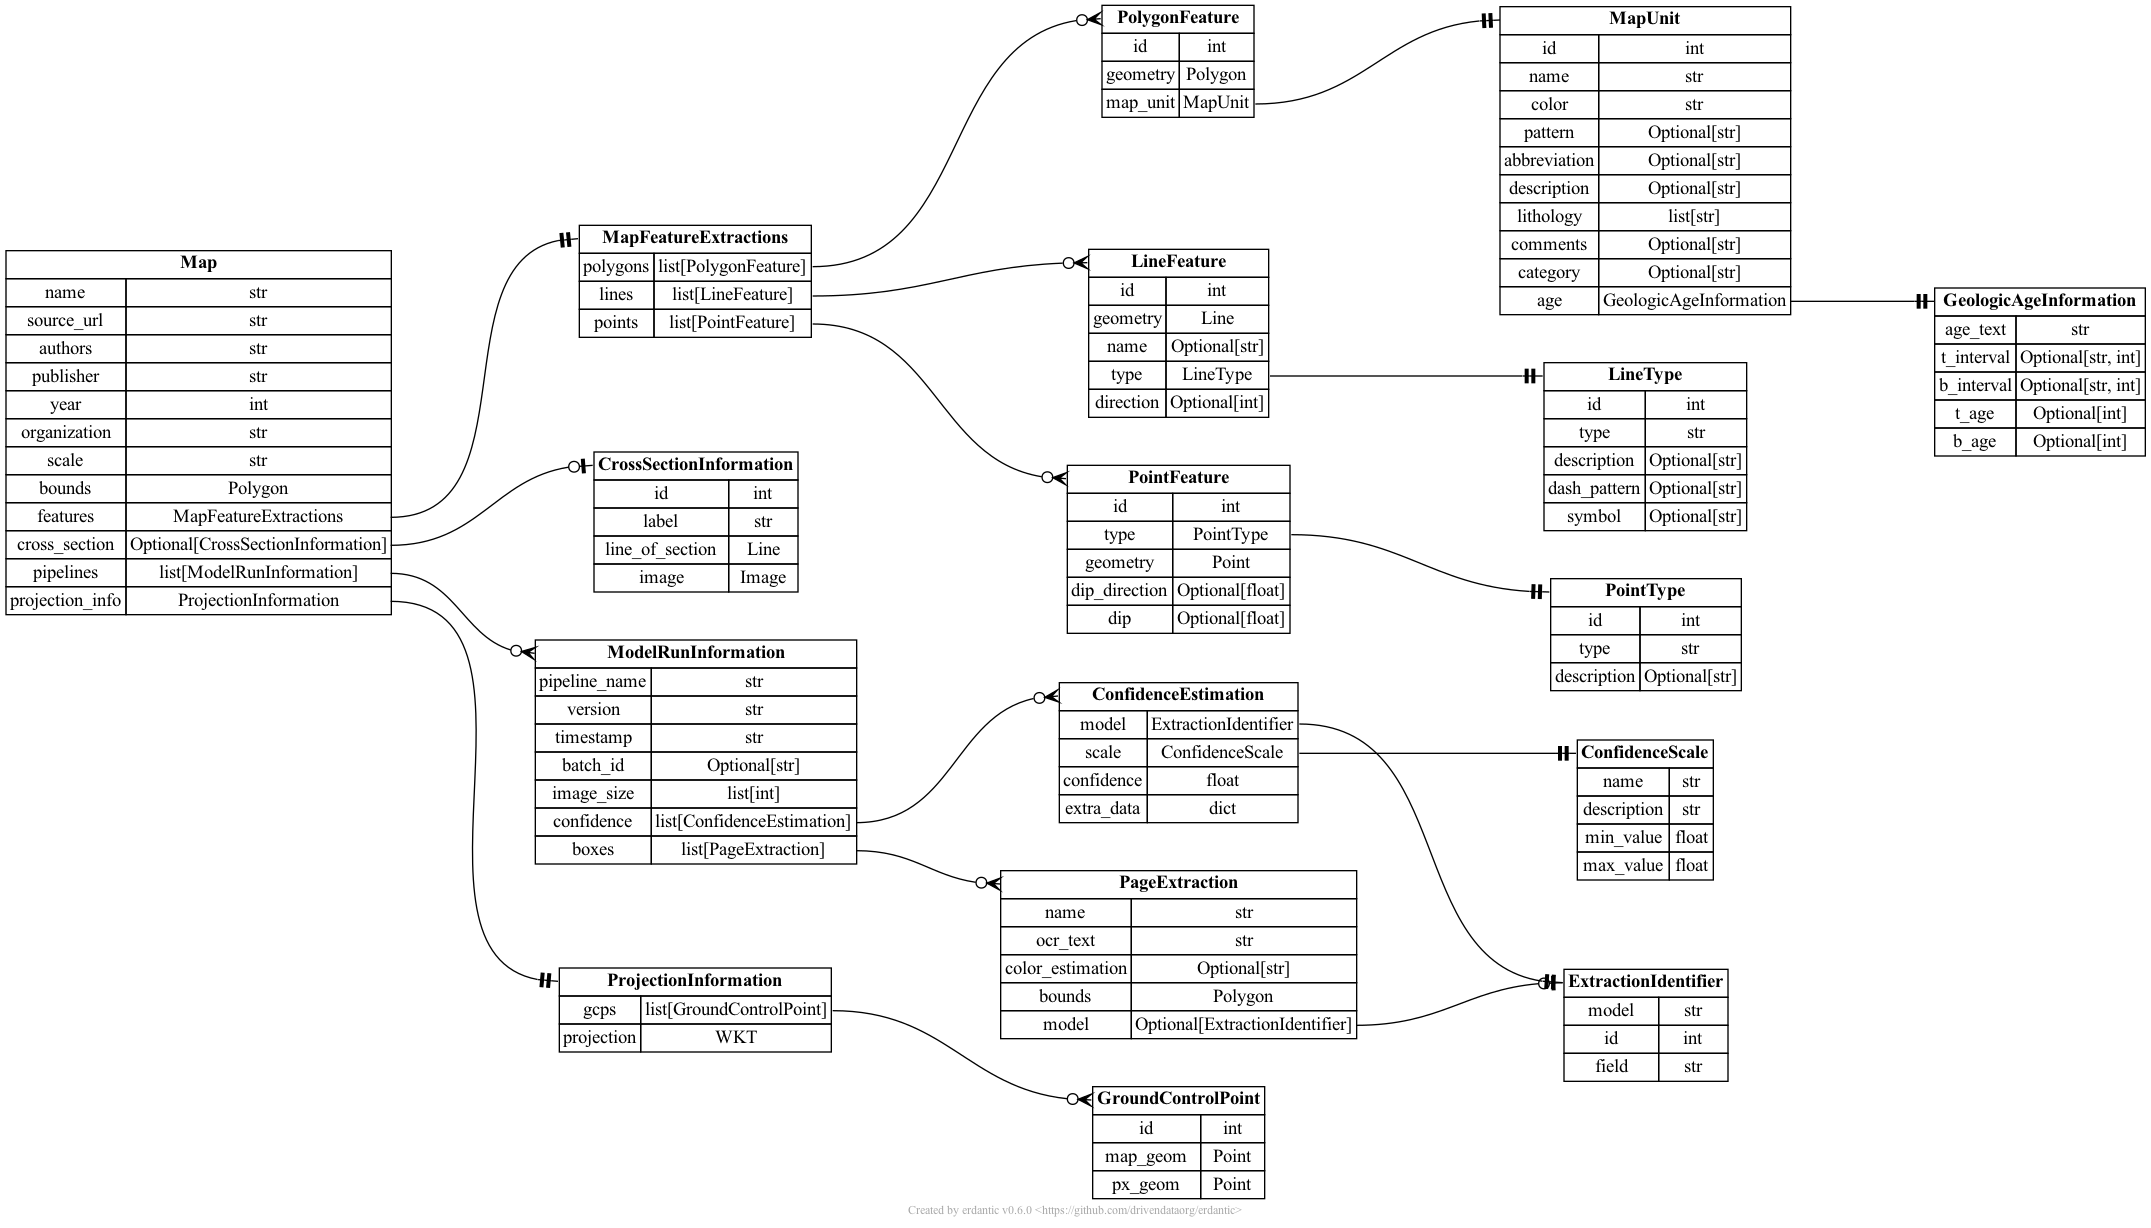
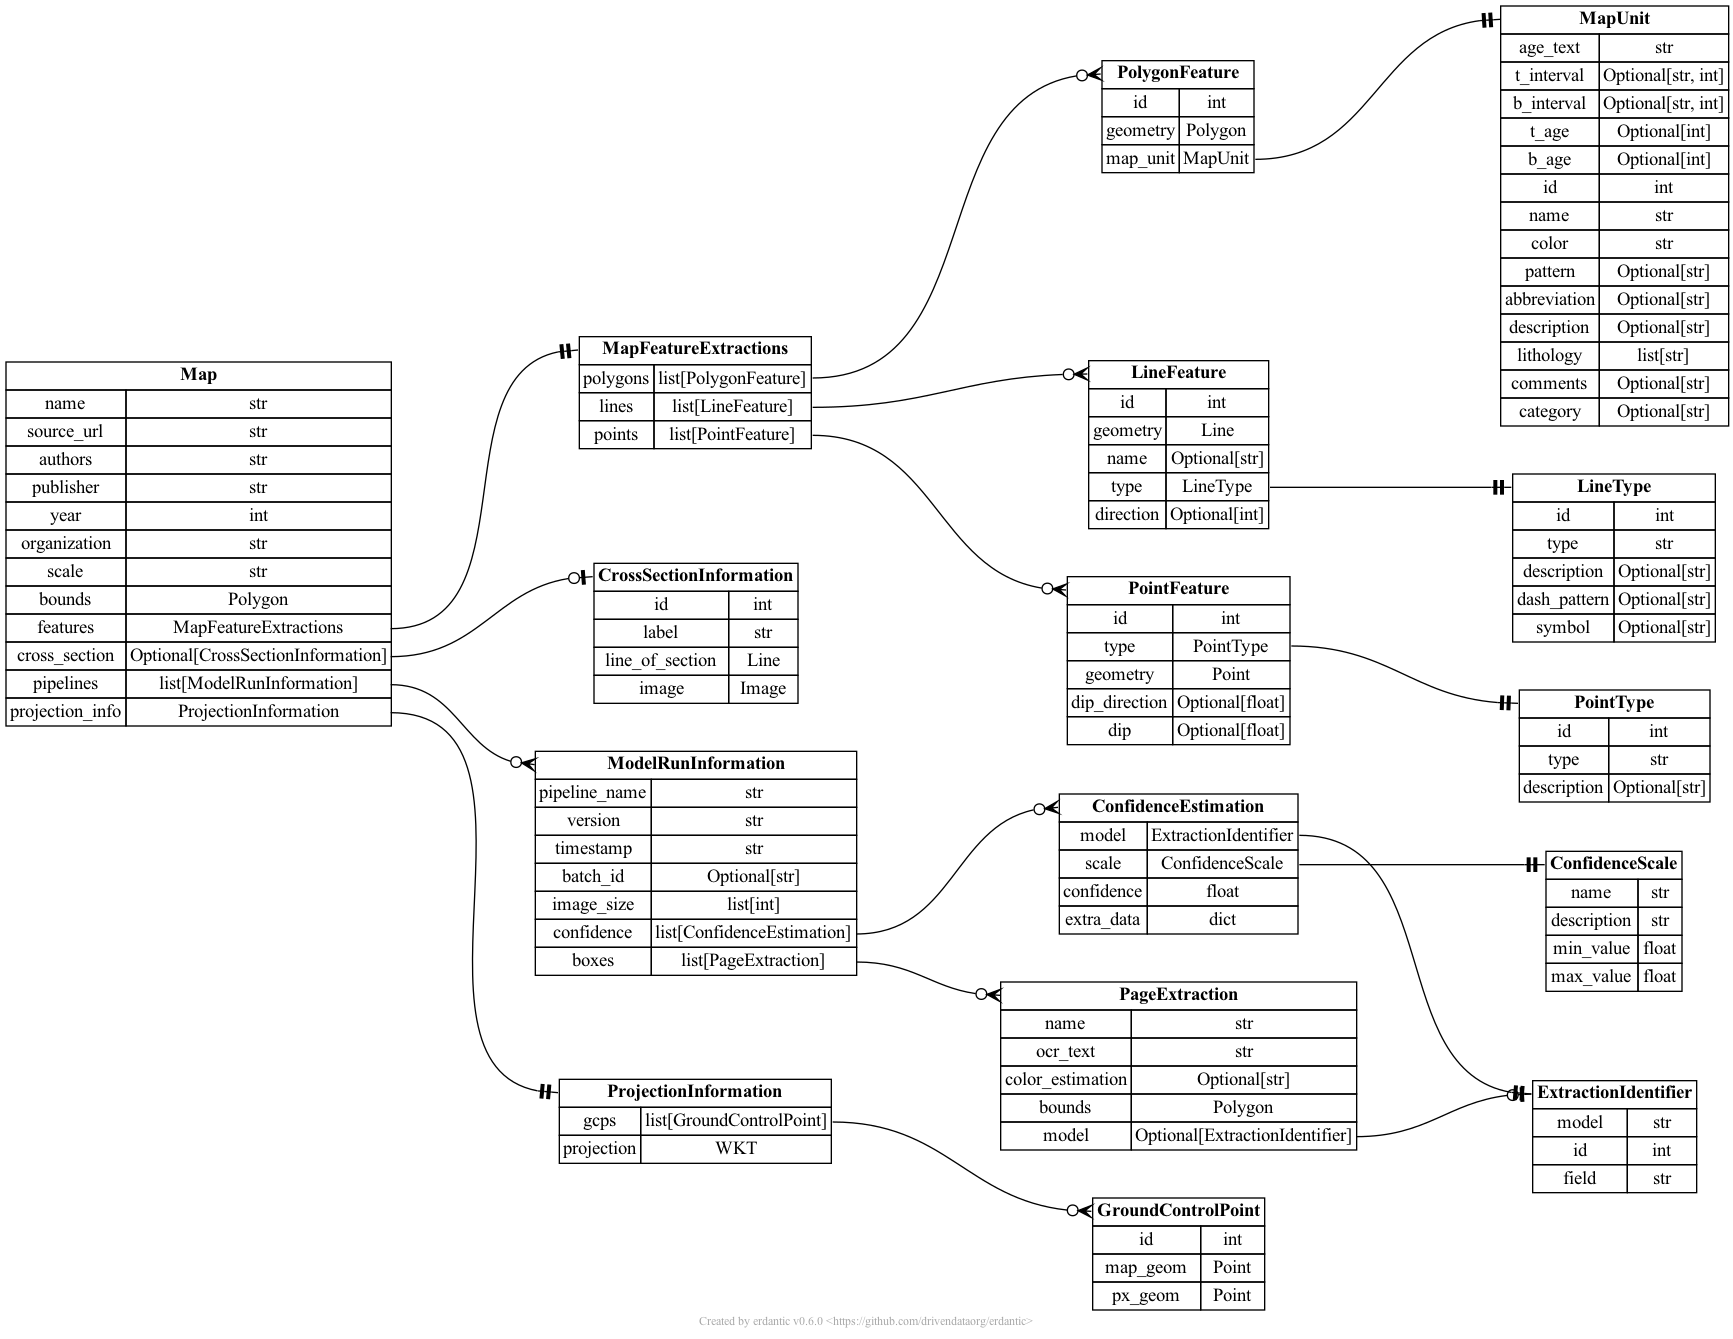
Created some more description in README

diff --git a/ta1/output-schemas.py b/ta1/output-schemas.py
@@ -30,7 +30,7 @@ class GeologicAgeInformation(BaseModel):
     b_age: Optional[int] = Field(..., description="Maximum age (in Ma)")
 
 
-class MapUnit(BaseModel):
+class MapUnit(GeologicAgeInformation):
     id: int = Field(..., description="Internal ID")
     name: str = Field(..., description="Geologic unit name extracted from legend")
 
@@ -47,7 +47,6 @@ class MapUnit(BaseModel):
     )
     comments: Optional[str] = Field(..., description="Comments extracted from legend")
     category: Optional[str] = Field(..., description="Name of containing legend block")
-    age: GeologicAgeInformation
 
 
 class PolygonFeature(BaseModel):

diff --git a/ta1/output-schemas.md b/ta1/output-schemas.md
@@ -34,7 +34,7 @@
 
 ## ConfidenceScale
 
-*Measurement scale for map extraction confidence*
+*Confidence measure for a map extraction*
 
 ### Properties
 
@@ -64,52 +64,6 @@ This would be nice to have but isn't required.*
 - **`model`** *(string)*: Model name.
 - **`id`** *(integer)*: ID of the extracted feature.
 - **`field`** *(string)*: Field name of the model.
-
-## GeologicAgeInformation
-
-*Information about the geologic age of a map unit.*
-
-### Properties
-
-- **`age_text`** *(string)*: Text representation of age extracted from legend.
-- **`t_interval`**: Youngest interval.
-  - **Any of**
-    - *string*
-    - *integer*
-    - *null*
-
-  Examples:
-  ```json
-  "Holocene"
-  ```
-
-  ```json
-  "Cretaceous"
-  ```
-
-- **`b_interval`**: Oldest interval.
-  - **Any of**
-    - *string*
-    - *integer*
-    - *null*
-
-  Examples:
-  ```json
-  "Mesozoic"
-  ```
-
-  ```json
-  "Neoproterozoic"
-  ```
-
-- **`t_age`**: Minimum age (in Ma).
-  - **Any of**
-    - *integer*
-    - *null*
-- **`b_age`**: Maximum age (in Ma).
-  - **Any of**
-    - *integer*
-    - *null*
 
 ## GroundControlPoint
 
@@ -209,6 +163,45 @@ This would be nice to have but isn't required.*
 
 ### Properties
 
+- **`age_text`** *(string)*: Text representation of age extracted from legend.
+- **`t_interval`**: Youngest interval.
+  - **Any of**
+    - *string*
+    - *integer*
+    - *null*
+
+  Examples:
+  ```json
+  "Holocene"
+  ```
+
+  ```json
+  "Cretaceous"
+  ```
+
+- **`b_interval`**: Oldest interval.
+  - **Any of**
+    - *string*
+    - *integer*
+    - *null*
+
+  Examples:
+  ```json
+  "Mesozoic"
+  ```
+
+  ```json
+  "Neoproterozoic"
+  ```
+
+- **`t_age`**: Minimum age (in Ma).
+  - **Any of**
+    - *integer*
+    - *null*
+- **`b_age`**: Maximum age (in Ma).
+  - **Any of**
+    - *integer*
+    - *null*
 - **`id`** *(integer)*: Internal ID.
 - **`name`** *(string)*: Geologic unit name extracted from legend.
 - **`color`** *(string)*: Color extracted from map/legend.
@@ -234,7 +227,6 @@ This would be nice to have but isn't required.*
   - **Any of**
     - *string*
     - *null*
-- **`age`**: Refer to *[GeologicAgeInformation](#GeologicAgeInformation)*.
 
 ## ModelRunInformation
 

diff --git a/ta1/README.md b/ta1/README.md
@@ -2,15 +2,46 @@
 
 ## Output schemas
 
-This proposed structure for TA1 output schemas contains feature extraction models (*MapPolygon*, *MapPoint*, *MapLine* and associated types) heavily based on Macrostrat's database schemas for storing geologic map information.
-
-
-### Summary
+*Data provided by TA1 performers to TA4 for feedback/synthesis*
 
 TA1 output schemas are defined in the [TA1 output JSONSchema](output-schemas.json) file.
 
-The JSON schemas were compiled using [`pydantic`](https://docs.pydantic.dev/latest/) model builder in Python, which provides a terse API. This also allows an entity-relationship diagram to be generated.
+The JSON schemas were compiled using [`pydantic`](https://docs.pydantic.dev/latest/) model builder in Python, which provides a terse API for JSON schema construction. This also allows an entity-relationship diagram to be generated.
 
 ![TA1 output schema summary](output-schemas.png)
 
-Documentation of each schema: [TA1 output schema documentation](output-schemas.md)
+Documentation of each schema: [**TA1 output schema documentation**](output-schemas.md)
+
+### Elements
+
+#### MapFeatureExtractions
+
+This set of models describes geographic features extracted from the map and their legend descriptions.
+
+*Notes:* The line types, age intervals, lithologies, and unit names should ideally
+be checked against a controlled vocabulary (which can be provided by Macrostrat's API or pre-defined). See [example line types](example-data/example-line-types.txt)
+for an example of typical line types.
+
+#### CrossSectionInformation
+
+Information about the map's cross-sections.
+
+*Notes*: Nice to have, but not required.
+
+#### ProjectionInformation
+
+Information about the map's projection and ground control points.
+
+
+#### ModelRunInformation
+
+Information about ML model runs, including confidence estimations, page extraction bounding boxes/OCR text, and versioning/provenance metadata.
+
+*Notes*: The **ExtractionIdentifier** schema represents a pointer to a specific piece of extracted information, such as `MapUnit[23]->lithology` or `PolygonFeature[15]->geometry`.
+
+
+## Feedback schemas
+
+*Data provided to TA1 performers by TA4 for feedback*
+
+TBD
